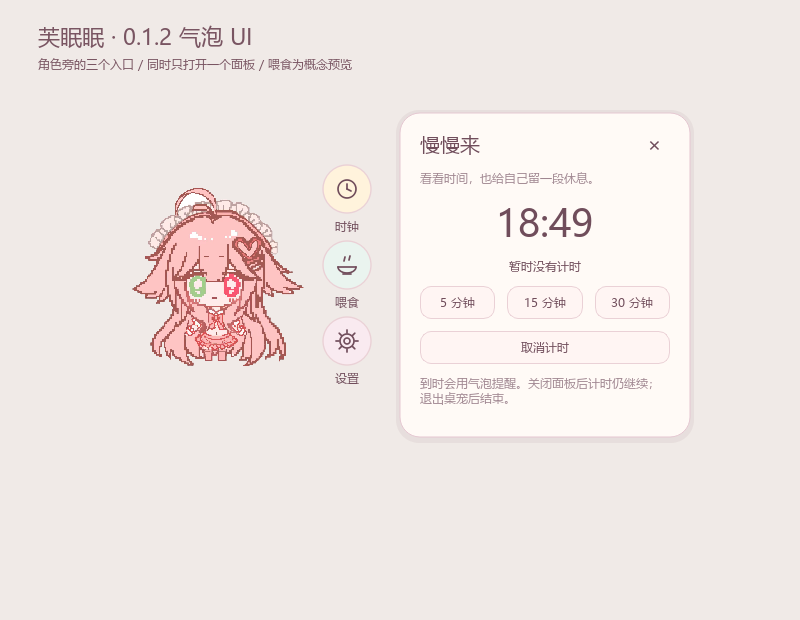
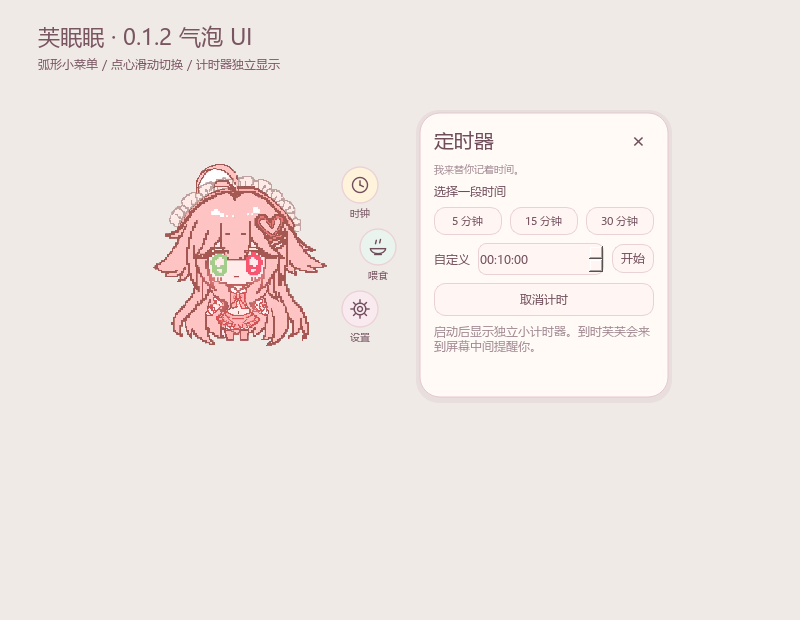
docs: refresh 0.1.2 controls and feedback previews

Changed region(s): [[0.1562, 0.1839, 0.8438, 0.6742], [0.0312, 0.0919, 0.4375, 0.1226], [0.4062, 0.2758, 0.4688, 0.3677]]

diff --git a/analysis/preview_ui_0_1_2.py b/analysis/preview_ui_0_1_2.py
@@ -6,6 +6,11 @@ import sys
 
 parser = argparse.ArgumentParser()
 parser.add_argument('--native', action='store_true')
+parser.add_argument('--exit-after-render', action='store_true')
+parser.add_argument('--sleep', action='store_true')
+parser.add_argument('--feedback', action='store_true')
+parser.add_argument('--timer', type=int, default=0)
+parser.add_argument('--alarm', action='store_true')
 parser.add_argument('--panel', choices=['food', 'clock', 'settings'], default='food')
 args = parser.parse_args()
 if not args.native:
@@ -15,7 +20,7 @@ sys.path.insert(0, str(ROOT / 'deskpet' / 'deskpet'))
 from PySide6.QtCore import QPoint, QRect, Qt, QTimer
 from PySide6.QtGui import QColor, QFont, QPainter, QPixmap
 from PySide6.QtWidgets import QApplication, QWidget, QVBoxLayout, QPushButton
-from pet.character import Character
+from pet.character import Character, State
 from pet.fonts import ensure_fonts
 from pet.settings import PetSettings
 from pet.sprites import SpriteLibrary
@@ -39,16 +44,27 @@ if args.native:
     controls.addWidget(quit_button)
     host.move(40, 80)
     host.show()
-    pet.setParent(host, pet.windowFlags())
+if args.sleep:
+    pet.character._enter_state(State.SLEEP)
 pet.show()
 work = pet._current_screen().availableGeometry()
 pet.move(work.center().x() - 230, work.center().y())
 pet.ui.show_menu()
 pet.ui.open_panel(args.panel)
+if args.feedback and args.panel == 'food':
+    pet.ui.preview_food()
+if args.timer:
+    pet.ui.start_seconds(args.timer)
+if args.alarm:
+    import time
+    pet.ui.deadline = time.monotonic() - 1
+    pet.ui.tick()
+
 
 
 def render():
-    widgets = (pet, pet.ui.ribbon, pet.ui.panel)
+    widgets = [w for w in (pet, pet.ui.ribbon, pet.ui.panel, pet.ui.speech, pet.ui.countdown, pet.ui.clock_hint)
+               if w is not None and w.isVisible()]
     bounds = QRect()
     for widget in widgets:
         bounds = bounds.united(widget.geometry())
@@ -62,20 +78,25 @@ def render():
     p.drawText(38, 45, '芙眠眠 · 0.1.2 气泡 UI')
     font.setPixelSize(12)
     p.setFont(font)
-    p.drawText(38, 69, '角色旁的三个入口 / 同时只打开一个面板 / 喂食为概念预览')
+    p.drawText(38, 69, '弧形小菜单 / 点心滑动切换 / 计时器独立显示')
     offset = QPoint((sheet.width() - bounds.width()) // 2 - bounds.left(), 105 - bounds.top())
     for widget in widgets:
         p.drawPixmap(widget.pos() + offset, widget.grab())
     p.end()
-    path = ROOT / 'analysis' / ('ui_0_1_2_preview.png' if args.panel == 'food' else f'ui_0_1_2_{args.panel}.png')
+    name = 'ui_0_1_2_preview' if args.panel == 'food' else f'ui_0_1_2_{args.panel}'
+    name += '_feedback' if args.feedback else ''
+    name += '_timer' if args.timer else ''
+    name += '_alarm' if args.alarm else ''
+    name += '_sleep' if args.sleep else ''
+    path = ROOT / 'analysis' / (name + '.png')
     sheet.save(str(path))
     print(path, flush=True)
-    if not args.native:
+    if not args.native or args.exit_after_render:
         pet.close()
         app.quit()
 
 
-QTimer.singleShot(600, render)
+QTimer.singleShot(pet.ui._arrival_animation.duration() + 220 if args.alarm else 600, render)
 QTimer.singleShot(240000, app.quit)
 app.aboutToQuit.connect(pet.close)
 app.exec()

diff --git a/docs/UI_0_1_2.md b/docs/UI_0_1_2.md
@@ -1,25 +1,27 @@
 # 0.1.2 气泡界面
 
-依据用户的手绘概念图，角色仍是主体，三个圆形入口为时钟、喂食、设置。暖黄色、浅绿色、淡粉色区分入口，面板用奶油底色。图中的虚线轮廓理解为候选排布位置，不绘制到桌面上。
+仍按用户手绘图保留时钟、喂食、设置三个入口。本轮根据试用反馈缩小图标并改为弧形：靠近屏幕边缘时，按空余位置切换到角色上、下、左、右。原角色 PNG 不变。
 
-鼠标在角色上停留约 350 ms 展开菜单。通常竖排在右侧，靠右则换到左侧；两侧不足时横排。菜单和面板按屏幕可用区域定位，避免进入任务栏。打开菜单暂停自主走动，跨过菜单间隙有 900 ms 宽限；面板打开后可以停留阅读。拖动、Esc 或切到其他应用会收起；托盘可找回入口。原来的角色右键菜单已移除。
+鼠标停留约 350 ms 展开，移开约 900 ms 收起；面板打开后可停留阅读。二级面板互斥，拖动、Esc 或切到其他应用会收起。菜单限制自主走动，但动画更新继续，待机呼吸、眨眼、睡眠呼吸和 Zzz 都会动。右键恢复两个快捷项：蓝色月亮的睡觉/叫醒，与红色电源的退出，中间有分隔线。设置面板仍保留全部设置，托盘也能找回入口。
 
-时钟、喂食、设置一次只开一个二级面板，再点当前入口会关闭。设置承接睡觉、大小、像素显示、走动、吸附、重载与退出，大小面板保留原来的预览和取消还原。
+悬停时钟图标只显示小号 HH:mm 文字，无背景框。点击才打开定时器设置：5/15/30 分钟预设，以及 00:00:01～23:59:59 的自定义时分秒。启动后出现可拖动的独立小窗口，支持暂停、继续和取消。关闭设置面板不影响计时，关闭独立窗口会取消；退出程序后不保留。
 
-喂食是概念面板。温牛奶、小饼干、草莓糕可选，数量 1～3 份；点击“预览投喂”更新演示饱腹感/心情，并显示短句。每次重新打开面板回到初始值，完全不写入养成存档。没有饥饿衰减、离线结算、库存或真正的吃东西动作。
+计时到期后会暂时解除吸附，用走路动作向当前屏幕可用区域中央移动，到达后显示提醒。拖动、大小对话框或右键菜单正在使用时先等待；用户在途中拖动则暂停移动，松开后继续提醒。提醒显示期间暂留中央，原吸附位置不会自动恢复。睡着时到期会起身移动，提醒后再回到睡眠。
 
-时钟显示本地时间，提供 5/15/30 分钟单个计时；重新选择会替换旧计时，可取消。关闭面板仍计时，到时气泡提醒；退出程序后不保留。暂未加入整点报时、声音或系统通知。
+喂食仍是概念预览。面板缩为约 250×360 个逻辑像素；零食用滑动轮播显示，中央完整、相邻露出部分。左右按钮或键盘左右键切换，数量仍是 1～3 份。投喂说明固定高度，避免长文字挤动按钮。每次重新打开重置演示数值，不写入养成存档。
 
-实现仍使用 PySide6 QWidget / QPainter。气泡入口、二级面板和对话使用独立透明窗口，避免被角色原生掩码裁掉。角色素材不变。图标为代码绘制，无新增生成素材依赖。
+清醒时预览会增加演示状态并说“谢谢你的小点心～”；睡着时改为“先留一份”，不增加状态、不唤醒，说“呼…点心留到醒来再吃吧。”定时开始、面板提示、独立窗口说明及到时提醒也随睡眠状态变化。
 
-验证：33 项自动检查通过，覆盖面板互斥、点击操作、演示数据隔离、计时、拖动、旧缩放与吸附、四角/负坐标屏幕/窄屏布局。Windows 原生显示已查看；桌面测试工具对透明子窗口按钮的定位有限，原生自动点击未计作通过。多屏实机热插拔和混合 DPI 仍需后续试用。
+对话改为优先贴近角色头顶，再考虑侧面与下方，不能再围绕“角色＋面板的大包围框”定位。用户截图中的远距离气泡由旧定位方式造成；投喂后长说明还会改变布局，本轮一并调整。
 
-预览脚本 `analysis/preview_ui_0_1_2.py` 直接捕获实际 Qt 控件，生成 `analysis/ui_0_1_2_preview.png`；`--native` 打开临时测试窗口，4 分钟后退出，不读取或保存个人配置。常规测试入口仍是根目录 run.bat。
+验证：43 项真实 Qt 自动检查通过，覆盖四向弧形布局、悬停文字、轮播动画/键盘、快捷菜单动作、独立计时暂停/继续/取消、自定义时间、到期移动/拖动打断、睡眠差异、气泡距离和原有缩放吸附。Windows 原生入口启动及睡眠到期提醒流程已运行，应用自身绘制图已查看；未声称完成所有原生鼠标命中、多屏热插拔或混合 DPI 验收。
 
-目标版本 0.1.2，关联 Issue #7；用户试用验收前保留在功能分支，不覆盖 v0.1.1。
+预览脚本 analysis/preview_ui_0_1_2.py 可加 --feedback、--sleep、--timer 秒数、--alarm；--native 使用 Windows 窗口，--exit-after-render 捕获后退出，均不加载/保存个人设置。常规测试仍双击根目录 run.bat。
 
-三个面板的实际绘制图：
+目标版本仍为 0.1.2，继续在 feat/bubble-ui-0.1.2 分支和 PR #8 / Issue #7 上迭代，待用户验收后合并，不覆盖 v0.1.1。
 
-- [喂食](../analysis/ui_0_1_2_preview.png)
+- [紧凑喂食与近身气泡](../analysis/ui_0_1_2_preview_feedback.png)
+- [定时器设置](../analysis/ui_0_1_2_clock.png)
+- [独立倒计时](../analysis/ui_0_1_2_clock_timer.png)
+- [睡眠到时提醒](../analysis/ui_0_1_2_clock_alarm_sleep.png)
 - [设置](../analysis/ui_0_1_2_settings.png)
-- [时钟](../analysis/ui_0_1_2_clock.png)

diff --git a/README.md b/README.md
@@ -7,12 +7,12 @@
 ## 现在能做什么
 
 - 放在桌面上，点击会开心，能拖着走，也会自己眨眼、走动和睡觉。
-- 鼠标在角色身上停留片刻，打开时钟、喂食、设置三个气泡入口；菜单会根据屏幕位置换侧或横排。
+- 鼠标在角色身上停留片刻，打开时钟、喂食、设置三个气泡入口；小图标沿弧线排列，会根据屏幕位置切换到上、下、左、右。
 - 在设置面板调整大小，范围 80%～200%；也可以按住 Ctrl 滚动滚轮。
 - 切换像素清晰或平滑显示，开关自主走动，记住上次的位置和大小。
 - 替换 PNG 动作素材后，可以在设置面板重新加载。
-- 喂食先做概念面板：选点心、加减份数、预览反馈；演示数值不会写入存档。
-- 时钟面板可设 5 / 15 / 30 分钟计时，到时弹出气泡提醒。
+- 喂食先做概念面板：左右滑动选点心、加减份数、预览反馈；睡着时先留点心，不唤醒。演示数值不存档。
+- 悬停时钟图标看时间，点击设定时；支持自定义时分秒、独立倒计时、暂停和取消，到时芙芙会来到屏幕中间提醒。
 - 已修复走路变小，靠近任务栏/屏幕边缘松开后会吸附；拖走可以解除，也可以在设置中开关。
 
 呆毛里仍有背景残留，现有动作也不多，后面还会继续补。已验收版本为 `0.1.1`；本分支是 `0.1.2` UI 试用版，等试用后再合并。
@@ -21,7 +21,7 @@
 
 新电脑第一次运行，需要先装 Python 3.10+，再双击 `setup.bat`。
 
-**平时双击根目录的 `run.bat` 就行。** 如果桌宠已经开着，先退出再启动，避免开出好几只。新版从气泡设置中退出，旧版仍用右键。鼠标移开后菜单会收起；Esc 可关闭菜单和面板，托盘图标也能打开菜单。
+**平时双击根目录的 `run.bat` 就行。** 如果桌宠已经开着，先退出再启动，避免开出好几只。右键可直接睡觉/叫醒或退出，气泡设置里也有这些操作。鼠标移开后菜单会收起；Esc 可关闭菜单和面板，托盘图标也能打开菜单。
 
 界面预览见 [0.1.2 实际 Qt 绘制](analysis/ui_0_1_2_preview.png)。
 

diff --git a/deskpet/deskpet/README.md b/deskpet/deskpet/README.md
@@ -29,8 +29,10 @@ Python / PySide6 写的透明桌宠。目前使用这份源码开发，原来的
 | 气泡 → 设置 → 靠近任务栏/屏幕边缘时吸附 | 开关释放拖动后的自动吸附，拖走可解除 |
 | 气泡 → 设置 → 重新加载素材 | 重新读 PNG 和 animations.json |
 | 气泡 → 设置 → 睡觉/叫醒/退出 | 手动状态切换或结束程序 |
-| 气泡 → 喂食 | 食物选择、1～3 份、预览投喂；数值仅演示，重新打开重置 |
-| 气泡 → 时钟 | 当前时间、5/15/30 分钟计时、取消计时 |
+| 气泡 → 喂食 | 左右滑动切换点心、1～3 份；清醒时预览投喂，睡着时先留一份，数值不存档 |
+| 悬停时钟图标 | 小号纯文字显示当前时间 |
+| 点击时钟图标 | 预设或自定义时分秒；启动独立倒计时，可暂停/继续/取消 |
+| 右键 | 睡觉/叫醒，与退出分隔显示 |
 | 鼠标停留约 350 ms | 打开气泡入口；移开约 900 ms 后收起，无需右键 |
 | Esc / 面板 × | 关闭菜单或面板 |
 | 点击托盘图标 | 重新打开气泡入口 |
@@ -39,7 +41,7 @@ Python / PySide6 写的透明桌宠。目前使用这份源码开发，原来的
 
 0.1.1 统一了动作的可见高度和脚底位置。靠近边缘约 24 个逻辑像素、或拖入任务栏区域后释放会吸附；可见人物不会再被整个透明窗口的边界挡在任务栏上方。换动作、调整大小和沿任务栏走动时保持贴边，关闭吸附后可以自由摆放。
 
-菜单打开时暂停角色自主走动，收起后恢复；二级面板同时只开一个，拖动会收起。关闭计时面板仍会继续计时；退出程序后计时结束，不做系统闹钟。
+菜单打开时限制自主走动，呼吸、眨眼与睡眠动画继续；二级面板同时只开一个，拖动会收起。关闭计时设置面板仍继续计时，关闭独立计时器则取消；到时芙芙会走向屏幕中央提醒。退出程序后计时结束，不做系统闹钟。
 
 大小、位置、显示方式、走动开关保存在源码 `.user/settings.json`；日志在 `.user/runtime.log`。配置损坏会回退默认值。`auto_sleep_seconds` 设为 0 可禁用自动睡眠。
 

diff --git a/CHANGELOG.md b/CHANGELOG.md
@@ -2,13 +2,15 @@
 
 ## 0.1.2 — 气泡 UI 试用分支（待验收）
 
-- 按手绘概念图加入三个气泡入口：时钟、喂食、设置；按屏幕可用空间换侧或横排。
-- 移除角色右键菜单，设置面板接替旧操作；增加托盘入口、Esc 和离开收起。
-- 二级面板互斥，打开时暂停走动，拖动或收起后恢复。
-- 喂食仅做概念预览：三种点心、1～3 份、演示状态条和对话气泡，不保存养成数据。
-- 时钟可看时间、设置或取消 5/15/30 分钟计时；到时气泡提醒，退出后不保留。
-- 原角色 PNG 未改；33 项自动检查通过。Windows 原生显示已查看，透明子窗口的桌面自动点击验证存在工具限制，交互由 Qt 事件检查覆盖。
-- 当前在 feat/bubble-ui-0.1.2 分支试用，未合并、未新增版本标签。
+- 小图标改为四向自适应弧形布局；二级面板互斥，托盘、Esc 与离开收起保留。
+- 右键恢复分隔显示的睡觉/叫醒与退出；设置面板保留其他功能。
+- 菜单只限制自主移动，待机呼吸、眨眼及睡眠动画继续播放。
+- 悬停时钟显示小号纯文字，点击打开定时器；新增自定义时分秒和可拖动独立倒计时，支持暂停、继续、取消。
+- 到时使用走路动画移向当前屏幕中央并提醒；用户拖动或使用大小/右键菜单时延后处理，睡眠状态有单独文本并在提醒后继续睡。
+- 喂食面板缩小，改为中央完整、两侧部分露出的滑动轮播，支持左右按钮和键盘；数量 1～3 份，演示数值不保存。睡着时只留点心，不增加数值。
+- 反馈区固定高度，对话紧贴角色定位，修复长说明挤动布局和气泡被推到远处。
+- 43 项 Qt 检查通过，Windows 原生启动与睡眠到期流程已运行；原角色 PNG 不变。多屏、混合 DPI 和全部原生鼠标命中仍待试用。
+- 继续更新 feat/bubble-ui-0.1.2 / PR #8，未合并、未新增标签。
 
 ## v0.1.1 — 行走大小与任务栏吸附
 
